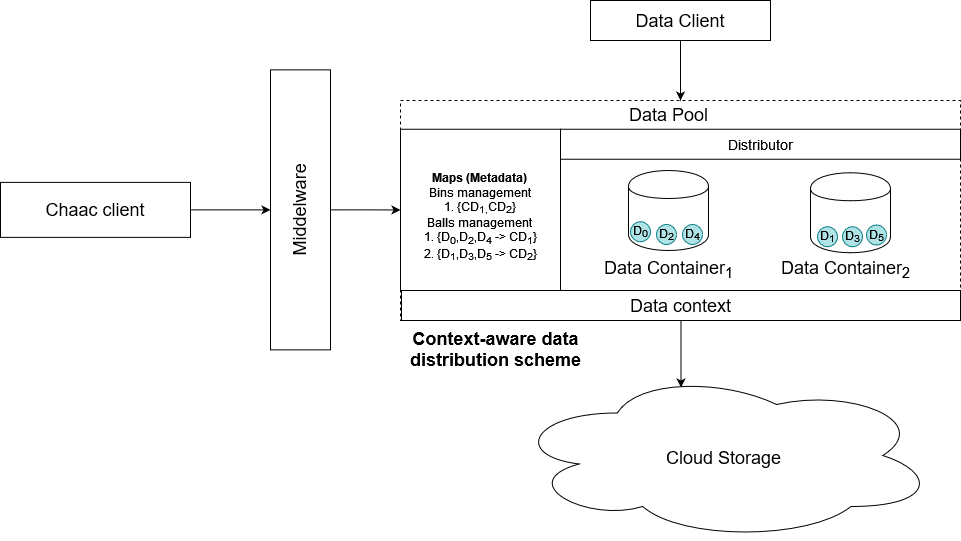
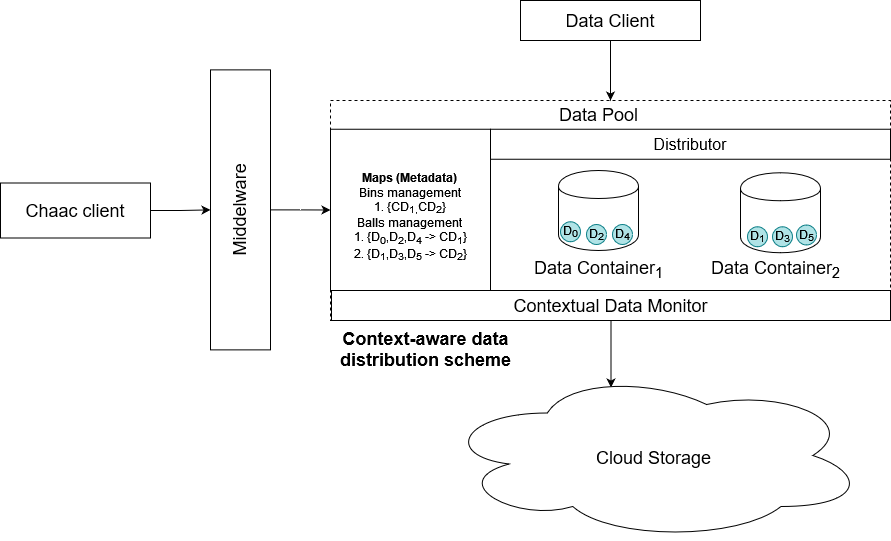
Update image of chaac

diff --git a/README.md b/README.md
@@ -7,7 +7,7 @@ _Chaac es una herramienta para construir esquemas de distribución de datos sens
 
 ## Tabla de contenido
 1. [Componentes](#componentes)
-2. [Data Context](#data-context)
+2. [Contextual Data Monitor](#data-context)
 3. [Middleware](#middleware)
 4. [Chaac Client](#chaac-client)
 5. [Data Pool](#data-pool)
@@ -18,7 +18,7 @@ _Chaac es una herramienta para construir esquemas de distribución de datos sens
 
 Chaac esta compuesto de 6 módulos que son los siguientes:
 
-- Data Context
+- Contextual Data Monitor
 - Middleware
 - Chaac Client
 - Data Pool
@@ -27,7 +27,7 @@ Chaac esta compuesto de 6 módulos que son los siguientes:
 
 ![Arquitectura middleware](/images/Chaac.png)
 
-## Data Context
+## Contextual Data Monitor
 
 Para obtener el contexto computacional se despliegan los siguientes módulos, en los hosts donde van a construir los esquemas de distribución:
 
@@ -48,7 +48,7 @@ docker run \
   alfredobarron/launcher:2
 ```
 
-### Monitor de datos contextuales
+### Monitor
 
 cAdvisor
 
